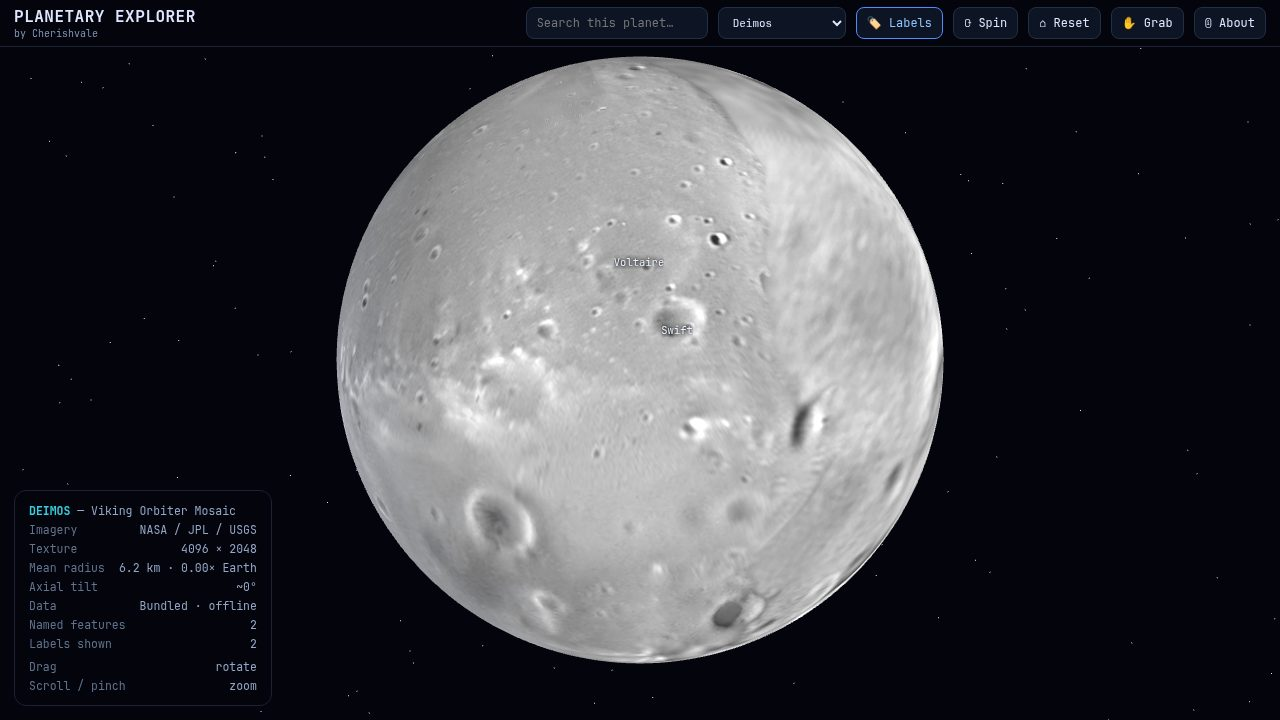
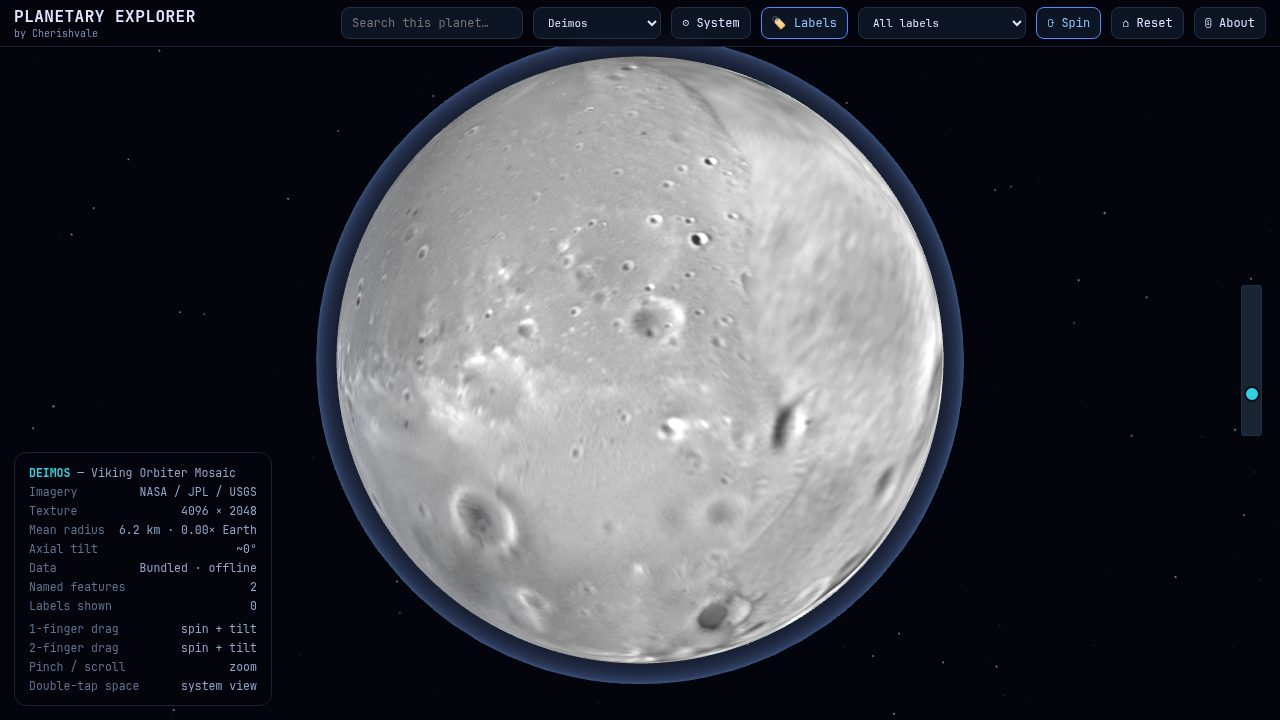
Planetary Explorer page: new imagery (20 refreshed worlds + orbit map, Earth atlas, street-level map) and copy covering the orbit map, 244k labels, tiled detail, street maps and zoom

diff --git a/planetary-explorer.html b/planetary-explorer.html
@@ -8,9 +8,9 @@
 <link rel="apple-touch-icon" href="/assets/logo/apple-touch-icon.png">
 
 <title>Planetary Explorer — by Cherishvale</title>
-<meta name="description" content="Planetary Explorer is an offline 3D map of the Solar System — 20 worlds, real spacecraft imagery, and thousands of IAU-named features.">
+<meta name="description" content="Planetary Explorer is an offline 3D atlas of the Solar System — 20 worlds, a live orbit map for any date, 244,625 place names, and street-level maps of Earth.">
 <meta property="og:title" content="Planetary Explorer — by Cherishvale">
-<meta property="og:description" content="An offline 3D map of the Solar System. 20 worlds, real spacecraft imagery, IAU-named features.">
+<meta property="og:description" content="An offline 3D atlas of the Solar System. 20 worlds, a live orbit map, 244,625 place names, and street-level Earth.">
 <meta property="og:type" content="website">
 <meta property="og:url" content="https://cherishvale.com/planetary-explorer">
 <style>
@@ -74,9 +74,18 @@
 
 <header class="wrap">
   <h1>PLANETARY EXPLORER</h1>
-  <div class="sub">An offline 3D map of the Solar System — 20 worlds, real spacecraft imagery, IAU-named features.</div>
+  <div class="sub">An offline 3D atlas of the Solar System — 20 worlds, a live orbit map for any date between 1800 and 2050, a quarter of a million place names, and street-level maps of Earth.</div>
   <div class="badge">Coming soon to Google Play</div>
 </header>
+
+<div class="wrap" style="padding-top:34px">
+  <h2>From the whole system down to a single street</h2>
+  <div class="grid" style="grid-template-columns:repeat(auto-fit,minmax(300px,1fr))">
+    <a class="shot" href="assets/screens/system.jpg"><img src="assets/screens/system.jpg" alt="Live Solar-System map with orbits and comets" loading="lazy"><span><b>The live orbit map.</b> Every planet where it really is, for any date from 1800 to 2050 — set a date, press play, watch the system turn. Track named comets, switch the orbit drawing style, or flip to true scale to feel how empty space really is.</span></a>
+    <a class="shot" href="assets/screens/earth-atlas.jpg"><img src="assets/screens/earth-atlas.jpg" alt="Earth with 244,625 place labels" loading="lazy"><span><b>244,625 place names.</b> Earth carries a full gazetteer that reveals itself as you descend — countries, states and provinces, capitals, cities, peaks, seas, lakes, rivers. Filter by category, or search and fly to anywhere.</span></a>
+    <a class="shot" href="assets/screens/city-streets.jpg"><img src="assets/screens/city-streets.jpg" alt="Street-level map of New York" loading="lazy"><span><b>Street-level Earth.</b> Open any of seven metro areas as a flat, pannable map at about 1.2 metres per pixel — individual streets and buildings, from public-domain aerial imagery.</span></a>
+  </div>
+</div>
 
 <div class="wrap" id="screens">
   <h2>Every world, up close</h2>
@@ -138,12 +147,15 @@
 <div class="wrap">
   <h2>What it does</h2>
   <div class="grid">
-    <div class="card"><b>20 worlds</b><p>The Moon, all the planets, and major moons and small bodies — Mercury to Neptune, Pluto, Charon, Phobos, Deimos and Bennu.</p></div>
-    <div class="card"><b>Fully offline</b><p>Every texture and label is bundled in the app. No internet needed, no ads, no accounts.</p></div>
-    <div class="card"><b>Labeled features</b><p>Thousands of IAU-named craters, maria, montes, rupes and more, with search and fly-to.</p></div>
-    <div class="card"><b>Real imagery</b><p>NASA / USGS spacecraft data, with original procedurally-generated gas-giant artwork.</p></div>
-    <div class="card"><b>Toward real</b><p>Axial tilts, polar flattening and rings for the gas giants.</p></div>
-    <div class="card"><b>Designed for touch</b><p>Drag to rotate, pinch to zoom, tap to explore.</p></div>
+    <div class="card"><b>20 worlds</b><p>Mercury to Neptune, plus Pluto, Charon, the Moon, Phobos, Deimos, Ceres, Vesta, Europa, Ganymede, Titan, Enceladus and Bennu — each with its own globe, data panel and named features.</p></div>
+    <div class="card"><b>Live orbit map</b><p>A true Solar-System map with planets on their real orbits for any date from 1800 to 2050. Play the clock, jump to presets, and follow named comets including Halley, Hale-Bopp, NEOWISE and the interstellar visitors ʻOumuamua, Borisov and 3I/ATLAS.</p></div>
+    <div class="card"><b>244,625 place names</b><p>Earth's full gazetteer — countries, states, capitals, cities and physical features — revealed in tiers as you zoom. Filter by category or search any name and fly to it.</p></div>
+    <div class="card"><b>Tiled deep detail</b><p>Earth gains a high-resolution layer (~1.6 km per pixel) blended in as you approach, held in memory one tile at a time.</p></div>
+    <div class="card"><b>Street-level Earth</b><p>Seven metro areas open as flat, pannable street maps at ~1.2 m per pixel, from public-domain aerial imagery — close enough to pick out individual buildings.</p></div>
+    <div class="card"><b>Smooth, natural zoom</b><p>Zoom follows altitude, so the ground tracks your finger from whole planet down to a city. Scroll, pinch, or drag the slider; labels resolve continent → country → state → city.</p></div>
+    <div class="card"><b>Fully offline</b><p>Every texture, tile and label is bundled in the app. No internet needed, no ads, no accounts, no tracking.</p></div>
+    <div class="card"><b>Real imagery</b><p>NASA / USGS spacecraft data and public-domain aerial photography, with original procedurally-generated gas-giant artwork.</p></div>
+    <div class="card"><b>Toward real</b><p>Axial tilts, polar flattening and rings for the gas giants, and adjustable orbit-path styling.</p></div>
   </div>
 
   <div class="studio">

diff --git a/index.html b/index.html
@@ -73,11 +73,11 @@
   <h2>Apps</h2>
   <div class="grid">
     <a class="app" href="/planetary-explorer">
-      <img src="assets/screens/saturn.jpg" alt="Planetary Explorer — Saturn">
+      <img src="assets/screens/system.jpg" alt="Planetary Explorer — the Solar System map">
       <div class="body">
         <h3>Planetary Explorer</h3>
-        <p>An offline 3D map of the Solar System — 20 worlds, real spacecraft imagery,
-           and thousands of named features.</p>
+        <p>An offline 3D atlas of the Solar System — 20 worlds, a live orbit map for any
+           date, 244,625 place names, and street-level maps of Earth.</p>
         <span class="tag">COMING SOON · GOOGLE PLAY</span>
       </div>
     </a>
